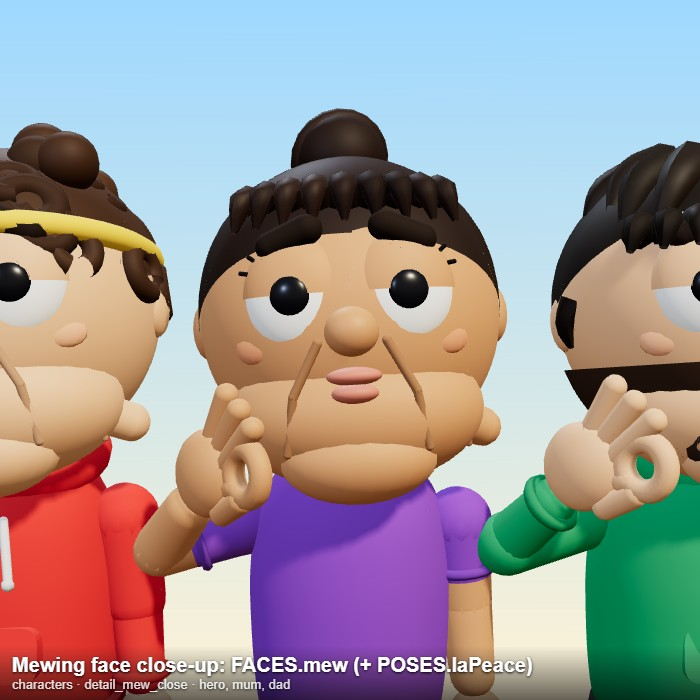
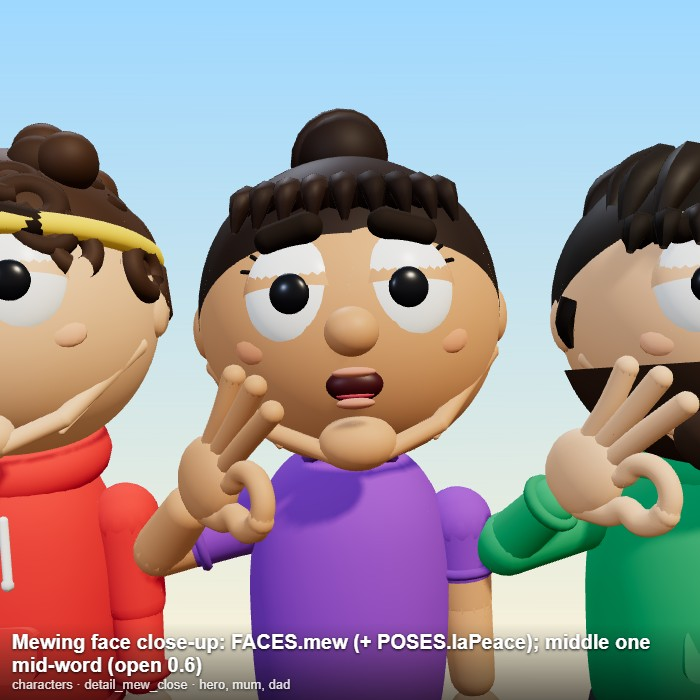
OK hand like a real OK sign, clean chiselled mewing face with moving lips, slimmer mewing Gerald
- 'ok' hand: back of hand, three long fanned fingers, index curls over to the thumb in a round circle (smooth tubes, no self-shadow acne)
- FACES.mew: V jawline, firm chin, pressed lips that part with open (mouth moves on la peace and other lines); no fat jaw
- Gerald AFACES.mew: firm cheeks, chin, pursed lips
- Prompt: mew must look clean, always pass the line's mouth curve

diff --git a/series-animation-guide/assets/library/character.js b/series-animation-guide/assets/library/character.js
@@ -181,11 +181,15 @@ function makeHand(ch, s, skinM, detail) {
   // modelled OK sign (thumb + index ring, three fingers up): the rig's curled fingers don't read as a circle at this scale
   const okG = new THREE.Group(); okG.visible = false; hand.add(okG); H.ok = okG;
   const okSeg = (a, b, r) => { const A = new THREE.Vector3(...a), B = new THREE.Vector3(...b), d = B.clone().sub(A); const m = add(okG, cap(r, Math.max(0.001, d.length() - r), 4, 10), skinM, A.clone().add(B).multiplyScalar(0.5).toArray()); m.quaternion.setFromUnitVectors(new THREE.Vector3(0, 1, 0), d.normalize()); return m; };
-  add(okG, sph(0.064, 18, 14), skinM, [0, -0.075, -0.008], [0, 0, 0], [0.62, 1.05, 1.0]);                                  // flat palm (normal = x)
-  add(okG, tor(0.034, 0.0165, 10, 26), skinM, [0, -0.16, 0.05], [0, Math.PI / 2, 0]);                                       // thumb + index ring (hole faces the palm side)
-  okSeg([0, -0.11, 0.045], [0, -0.132, 0.05], 0.018);                                                                      // index root into the ring
-  okSeg([0, -0.06, 0.055], [0, -0.13, 0.072], 0.019);                                                                      // thumb root into the ring
-  [[0.012, 0.0], [-0.013, -0.16], [-0.038, -0.32]].forEach(([z, a]) => { const L = 0.1 - Math.abs(a) * 0.05; okSeg([0, -0.12, z], [0, -0.12 - Math.cos(a) * L, z + Math.sin(a) * L], 0.0175); });   // three fingers up, fanned
+  // OK sign like the reference photo (back of the hand to camera): middle, ring and pinky long and fanned up; the index curls over
+  // and meets the thumb tip in a round circle beside the palm. Hand-local: fingers point -y, finger row along z (index +z), palm normal x.
+  const okChain = (pts, r) => { const c = new THREE.CatmullRomCurve3(pts.map((q) => new THREE.Vector3(...q))); add(okG, new THREE.TubeGeometry(c, 24, r, 10), skinM, [0, 0, 0]); add(okG, sph(r, 12, 10), skinM, pts[0]); add(okG, sph(r, 12, 10), skinM, pts[pts.length - 1]); };   // smooth finger
+  add(okG, sph(0.064, 18, 14), skinM, [0, -0.07, 0.0], [0, 0, 0], [0.55, 1.05, 1.0]);                                        // back of the hand
+  const cy = -0.135, cz = 0.078, cr = 0.04, P = (deg) => { const a = deg * Math.PI / 180; return [0, cy - cr * Math.sin(a), cz + cr * Math.cos(a)]; };
+  okChain([[0, -0.11, 0.032], P(200), P(160), P(120), P(85), P(50), P(22)], 0.0165);                                      // index: curls over the top of the circle
+  okChain([[0, -0.035, 0.035], [0, -0.07, 0.068], P(-90), P(-50), P(-12), P(14)], 0.019);                                   // thumb: from the wrist side up the bottom of the circle to the index tip
+  [[0.012, 0.06, 0.15], [-0.012, -0.08, 0.142], [-0.034, -0.25, 0.115]].forEach(([z, a, L]) => okChain([[0, -0.115, z], [0, -0.115 - Math.cos(a) * L * 0.5, z + Math.sin(a) * L * 0.5], [0, -0.115 - Math.cos(a * 1.25) * L, z + Math.sin(a * 1.25) * L]], 0.0168));   // middle, ring, pinky: long, fanned
+  okG.traverse((m) => { if (m.isMesh) { m.castShadow = false; m.receiveShadow = false; } });   // small tubes self-shadow into jagged acne
   H.thumb = [t1, t2]; H.parts?.push(t1); if (H.ball) H.parts.forEach((m) => (m.visible = false));
   return H;
 }
@@ -421,21 +425,18 @@ function buildFace(ch, o) {
   const teeth = new THREE.Mesh(box(1, 1, 1), new THREE.MeshStandardMaterial({ color: 0xffffff, roughness: 0.4 })); mouth.add(teeth);
   const smile = new THREE.Mesh(tor(1, 0.1, 8, 24, Math.PI), darkM); smile.position.z = R * 0.04; mouth.add(smile);
   F.mouth = { g: mouth, mm, tongue, teeth, smile };
-  // MEWING (the "la peace" face, exaggerated like the mewing-cat meme): a huge square jaw and chin below the round head,
-  // hard jaw ridges, deep smile-line creases from the nose to the chin, and lips pushed forward. Hidden unless face({ mew }).
+  // MEWING (the "la peace" face): a clean, chiselled look, not a fat one. A sharp V jawline, a firm chin pushed forward,
+  // lips pressed together (they part when the character talks). Hidden unless face({ mew }).
   const mew = new THREE.Group(); mew.visible = false; h.add(mew); F.mew = mew;
-  const jawM = ch.skin, creaseM = mat(shade(o.skin, 0.62), { rough: 0.85 }), lipM = mat(new THREE.Color(o.skin).lerp(new THREE.Color(0xd9707a), 0.55).getHex(), { rough: 0.45 });
-  add(mew, sph(R * 0.62, 28, 20), jawM, [0, -R * 0.62, R * 0.36], [0, 0, 0], [1.32, 0.78, 1.0]);                       // jaw block
-  add(mew, sph(R * 0.36, 22, 16), jawM, [0, -R * 0.9, R * 0.62], [0, 0, 0], [1.35, 0.78, 0.95]);                        // square chin
-  const seg = (a, b, r) => { const A = new THREE.Vector3(...a).multiplyScalar(R), B = new THREE.Vector3(...b).multiplyScalar(R), d = B.clone().sub(A), m = add(mew, cap(R * r, d.length(), 3, 8), creaseM, A.clone().add(B).multiplyScalar(0.5).toArray()); m.quaternion.setFromUnitVectors(new THREE.Vector3(0, 1, 0), d.normalize()); m.castShadow = false; };
+  const shadeM = mat(shade(o.skin, 0.84), { rough: 0.7 }), lipM = mat(new THREE.Color(o.skin).lerp(new THREE.Color(0xc96a72), 0.45).getHex(), { rough: 0.45 });
+  const seg = (a, b, r, m) => { const A = new THREE.Vector3(...a).multiplyScalar(R), B = new THREE.Vector3(...b).multiplyScalar(R), d = B.clone().sub(A), q = add(mew, cap(R * r, d.length(), 4, 10), m, A.clone().add(B).multiplyScalar(0.5).toArray()); q.quaternion.setFromUnitVectors(new THREE.Vector3(0, 1, 0), d.normalize()); q.castShadow = false; return q; };
+  add(mew, sph(R * 0.2, 18, 14), ch.skin, [0, -R * 0.8, R * 0.7], [0.3, 0, 0], [1.2, 0.85, 0.9]);                       // firm chin, pushed forward
   for (const s of [-1, 1]) {
-    add(mew, cap(R * 0.13, R * 0.55, 5, 12), jawM, [s * R * 0.6, -R * 0.68, R * 0.32], [0.35, s * 0.45, s * 1.05]);      // jaw ridge, ear to chin
-    seg([s * 0.2, -0.2, 0.99], [s * 0.36, -0.5, 0.92], 0.028); seg([s * 0.36, -0.5, 0.92], [s * 0.42, -0.84, 0.81], 0.028);   // smile-line crease, nose to chin
-    seg([s * 0.62, -0.5, 0.62], [s * 0.7, -0.86, 0.4], 0.024);                                                             // jowl fold
+    seg([s * 0.9, -0.28, 0.2], [s * 0.5, -0.72, 0.6], 0.06, ch.skin); seg([s * 0.5, -0.72, 0.6], [s * 0.16, -0.86, 0.72], 0.06, ch.skin);   // sharp jawline ridge, ear to chin
+    seg([s * 0.86, -0.36, 0.18], [s * 0.48, -0.8, 0.56], 0.02, shadeM);                                                  // shadow under the jawline
   }
-  seg([-0.3, -1.08, 0.68], [0.3, -1.08, 0.68], 0.024);                                                                     // under-chin fold
-  add(mew, sph(R * 0.13, 16, 10), lipM, [0, -R * 0.4, R * 0.98], [0, 0, 0], [1.25, 0.42, 0.75]);                         // upper lip, pushed out
-  add(mew, sph(R * 0.12, 16, 10), lipM, [0, -R * 0.5, R * 0.97], [0, 0, 0], [1.15, 0.5, 0.8]);                           // lower lip
+  F.lipU = add(mew, sph(R * 0.1, 16, 10), lipM, [0, -R * 0.42, R * 0.95], [0, 0, 0], [1.3, 0.32, 0.6]);                  // lips, pressed together
+  F.lipL = add(mew, sph(R * 0.095, 16, 10), lipM, [0, -R * 0.48, R * 0.94], [0, 0, 0], [1.2, 0.36, 0.6]);
   ch.F = F;
 }
 // Film clock for automatic secondary motion (blinks, breathing). The page sets CLOCK.t once per frame before drawing,
@@ -457,11 +458,12 @@ function applyFace(ch, f) {
     b.g.position.y = b.baseY + o.brow * R * 0.18 + (o.eye - 1) * R * 0.12;
     b.g.rotation.z = s * o.browTilt * 0.7;
   }
-  const mk = o.mew ?? 0; F.mew.visible = mk > 0.01; F.mew.scale.setScalar(0.6 + 0.4 * mk);
-  const m = F.mouth, open = mk > 0.5 ? 0 : o.open; if (mk > 0.5) o.smile = 0;
+  const mk = o.mew ?? 0; F.mew.visible = mk > 0.01; F.mew.scale.setScalar(0.85 + 0.15 * mk);
+  const m = F.mouth, open = o.open, mewing = mk > 0.5; if (mewing) o.smile = 0;
+  if (F.lipU) { F.lipU.position.y = -R * 0.42 + R * 0.07 * open; F.lipL.position.y = -R * 0.48 - R * 0.13 * open; }   // the lips part when they talk (la peace / any line)
   if (open > 0.04) {
     m.mm.visible = true; m.smile.visible = false;
-    m.mm.scale.set(R * (0.12 + 0.1 * Math.min(1, open) + 0.06 * o.wide), R * (0.02 + 0.2 * open), R * 0.08);
+    m.mm.scale.set(R * (0.12 + 0.1 * Math.min(1, open) + 0.06 * o.wide) * (mewing ? 0.7 : 1), R * (0.02 + 0.2 * open) * (mewing ? 0.75 : 1), R * 0.08);
     m.tongue.visible = open > 0.35; m.tongue.position.set(0, -R * 0.1 * open, R * 0.02); m.tongue.scale.set(R * 0.12, R * 0.045 * open, R * 0.05);
     m.teeth.visible = !!o.teeth || open > 0.6; m.teeth.scale.set(R * 0.2, R * 0.04, R * 0.04); m.teeth.position.set(0, R * 0.16 * open, R * 0.05);
   } else {
@@ -550,7 +552,7 @@ export const FACES = {
   lovestruck: { open: 0.45, brow: 0.7, eye: 1.15, wide: 1.2, hearts: 1, lid: 0 },
   excited: { open: 0.65, brow: 0.8, eye: 1.2, teeth: true, wide: 1.2 },
   sleepy: { smile: 0.1, lid: 0.7 },
-  mew: { mew: 1, smile: 0, open: 0, lid: 0.5, brow: -0.45, browTilt: -0.5, pupil: [0, -0.05], blink: false },   // "la peace": mewing, closed tight lips, low lids, sharp brows
+  mew: { mew: 1, smile: 0, open: 0, lid: 0.42, brow: -0.3, browTilt: -0.35, pupil: [0, 0], blink: false },   // add open: mo(...) for la peace lines   // "la peace": mewing, closed tight lips, low lids, sharp brows
 };
 
 // ---------- presets (all complete; no implicit merge with hero) ----------

diff --git a/series-animation-guide/assets/library/cat.js b/series-animation-guide/assets/library/cat.js
@@ -53,20 +53,17 @@ export function buildCat(o) {
   for (const s of [-1, 1]) for (let k = 0; k < 3; k++) add(head, cyl(0.0022, 0.0012, R * 1.1, 4), mat(0xfffaf0), [s * R * 0.62, -R * 0.36 + (k - 1) * R * 0.07, R * 0.86], [0, s * 0.35, Math.PI / 2 + s * (k - 1) * 0.12]);
   for (let i = -1; i <= 1; i++) add(head, cap(R * 0.035, R * 0.22, 4, 8), stripe, [i * R * 0.17, R * 0.62, R * 0.62], [0.95, 0, i * 0.25]);
   for (const s of [-1, 1]) for (let k = 0; k < 2; k++) add(head, cap(R * 0.03, R * 0.2, 4, 8), stripe, [s * R * 1.0, R * 0.05 - k * R * 0.17, R * 0.25], [0, s * 0.5, Math.PI / 2]);
-  // MEWING Gerald (the mewing-cat meme): fat jowls, a huge chin and double chin, deep creases from the nose down, pink lips pushed out.
-  // Hidden unless face({ mew: 0..1 }) / AFACES.mew.
+  // MEWING Gerald (the mewing-cat meme, kept clean): firmer, slightly fuller cheeks, a defined jaw and chin, soft smile-line
+  // creases from the nose, small pink lips pressed out. Hidden unless face({ mew: 0..1 }) / AFACES.mew.
   const mew = new THREE.Group(); mew.visible = false; head.add(mew);
-  const creaseM = mat(0xa24a16, { rough: 0.9 }), lipM = mat(0xe58a8f, { rough: 0.4 });
-  const mseg = (a, b, r) => { const A = new THREE.Vector3(...a).multiplyScalar(R), B = new THREE.Vector3(...b).multiplyScalar(R), d = B.clone().sub(A); const m = add(mew, cap(R * r, Math.max(0.001, d.length() - R * r), 3, 8), creaseM, A.clone().add(B).multiplyScalar(0.5).toArray()); m.quaternion.setFromUnitVectors(new THREE.Vector3(0, 1, 0), d.normalize()); m.castShadow = false; };
+  const creaseM = mat(0xc56a2a, { rough: 0.9 }), lipM = mat(0xe58a8f, { rough: 0.4 });
+  const mseg = (a, b, r, m = creaseM) => { const A = new THREE.Vector3(...a).multiplyScalar(R), B = new THREE.Vector3(...b).multiplyScalar(R), d = B.clone().sub(A); const q = add(mew, cap(R * r, Math.max(0.001, d.length() - R * r), 4, 10), m, A.clone().add(B).multiplyScalar(0.5).toArray()); q.quaternion.setFromUnitVectors(new THREE.Vector3(0, 1, 0), d.normalize()); q.castShadow = false; };
   for (const s of [-1, 1]) {
-    add(mew, sph(R * 0.52, 20, 14), fur, [s * R * 0.62, -R * 0.62, R * 0.42], [0, 0, 0], [1.0, 1.15, 0.9]);              // jowls
-    mseg([s * 0.22, -0.3, 1.0], [s * 0.36, -0.62, 0.95], 0.038); mseg([s * 0.36, -0.62, 0.95], [s * 0.4, -0.98, 0.8], 0.038);   // nose-to-chin crease
-    mseg([s * 0.95, -0.5, 0.5], [s * 0.9, -0.95, 0.35], 0.03);                                                                // outer jowl fold
+    add(mew, sph(R * 0.36, 20, 14), fur, [s * R * 0.62, -R * 0.5, R * 0.48], [0, 0, 0], [0.95, 1.05, 0.85]);              // firm cheeks
+    mseg([s * 0.2, -0.3, 0.97], [s * 0.34, -0.6, 0.9], 0.024);                                                              // soft smile-line crease
   }
-  add(mew, sph(R * 0.46, 22, 16), cream, [0, -R * 0.86, R * 0.6], [0, 0, 0], [1.35, 0.85, 0.95]);                          // big chin
-  add(mew, sph(R * 0.5, 22, 16), fur, [0, -R * 1.18, R * 0.38], [0, 0, 0], [1.45, 0.6, 0.95]);                            // double chin
-  mseg([-0.45, -1.05, 0.72], [0.45, -1.05, 0.72], 0.03);                                                                     // chin fold
-  add(mew, sph(R * 0.13, 14, 10), lipM, [0, -R * 0.52, R * 0.98], [0, 0, 0], [1.3, 0.55, 0.8]);                           // pursed lips
+  add(mew, sph(R * 0.24, 18, 14), cream, [0, -R * 0.66, R * 0.74], [0.3, 0, 0], [1.2, 0.8, 0.9]);                          // firm chin
+  add(mew, sph(R * 0.1, 14, 10), lipM, [0, -R * 0.5, R * 0.97], [0, 0, 0], [1.3, 0.5, 0.75]);                              // pursed lips
   // eyes: series look (episodes 1-2): white ball, round black pupil, no iris colour or catchlight; heavy upper lid is his signature
   const eyes = [];
   for (const s of [-1, 1]) {

diff --git a/series-animation-guide/assets/library/registry.js b/series-animation-guide/assets/library/registry.js
@@ -146,9 +146,9 @@ reg({ id: 'detail_love_eyes', cat: 'characters', title: 'Heart eyes: face({heart
   build: () => { const g = new THREE.Group(); [['hero', -0.6], ['mum', 0.6]].forEach(([n, x]) => { const c = makeCharacter(PRESETS[n]); c.pose(POSES.idle(0.2)); c.face(FACES.love); c.root.position.x = x; g.add(c.root); }); const cat = makeAnimal('cat', ANIMALS.gerald); cat.pose(APOSES.sit(0.4)); cat.face(AFACES.love); cat.root.position.set(0, 0, 0.6); g.add(cat.root); return { obj: g, cam: { pos: [0, 1.3, 3.4], target: [0, 0.95, 0], fov: 36 } }; } });
 reg({ id: 'detail_la_peace', cat: 'characters', title: 'La peace: POSES.laPeace + FACES.mew (OK hand, mewing face)', note: 'hero, mum, dad',
   build: () => { const g = new THREE.Group(); [['hero', -0.9], ['mum', 0.0], ['dad', 0.95]].forEach(([n, x], i) => { const c = makeCharacter(PRESETS[n]); c.pose(POSES.laPeace(i)); c.face(FACES.mew); c.root.position.x = x; c.root.rotation.y = 0.1; g.add(c.root); }); return { obj: g, cam: { pos: [0, 1.5, 3.9], target: [0, 1.3, 0], fov: 38 } }; } });
-reg({ id: 'detail_mew_close', cat: 'characters', title: 'Mewing face close-up: FACES.mew (+ POSES.laPeace)', note: 'hero, mum, dad',
-  build: () => { const g = new THREE.Group(); [['hero', -0.85], ['mum', 0.0], ['dad', 0.9]].forEach(([n, x], i) => { const c = makeCharacter(PRESETS[n]); c.pose(POSES.laPeace(i)); c.face(FACES.mew); c.root.position.x = x; g.add(c.root); }); return { obj: g, cam: { pos: [0, 1.75, 2.4], target: [0, 1.5, 0], fov: 40 } }; } });
+reg({ id: 'detail_mew_close', cat: 'characters', title: 'Mewing face close-up: FACES.mew (+ POSES.laPeace); middle one mid-word (open 0.6)', note: 'hero, mum, dad',
+  build: () => { const g = new THREE.Group(); [['hero', -0.85], ['mum', 0.0], ['dad', 0.9]].forEach(([n, x], i) => { const c = makeCharacter(PRESETS[n]); c.pose(POSES.laPeace(i)); c.face({ ...FACES.mew, open: i === 1 ? 0.6 : 0 }); c.root.position.x = x; g.add(c.root); }); return { obj: g, cam: { pos: [0, 1.75, 2.4], target: [0, 1.5, 0], fov: 40 } }; } });
 reg({ id: 'detail_ok_hand', cat: 'characters', title: 'OK hand close-up (hR: ok)', note: '',
   build: () => { const c = makeCharacter(PRESETS.mum); c.pose(POSES.laPeace(0)); c.face(FACES.mew); const p = new THREE.Vector3(); c.root.updateMatrixWorld(true); c.aR.hand.root.getWorldPosition(p); return { obj: c.root, cam: { pos: [p.x + 0.1, p.y + 0.15, p.z + 1.2], target: [p.x, p.y + 0.12, p.z], fov: 30 } }; } });
-reg({ id: 'detail_gerald_mew', cat: 'animals', title: 'Mewing Gerald: AFACES.mew (jowls, chin, creases, pursed lips)', note: 'front / 3-4',
+reg({ id: 'detail_gerald_mew', cat: 'animals', title: 'Mewing Gerald: AFACES.mew (firm cheeks, chin, pursed lips)', note: 'front / 3-4',
   build: () => { const g = new THREE.Group(); [[-0.36, 0.0], [0.4, 0.55]].forEach(([x, ry]) => { const c = makeAnimal('cat', ANIMALS.gerald); c.pose({ ...APOSES.sit(0.3), hx: -0.12 }); c.face(AFACES.mew); c.root.position.x = x; c.root.rotation.y = ry; g.add(c.root); }); return { obj: g, cam: { pos: [0, 0.6, 2.1], target: [0, 0.45, 0], fov: 34 } }; } });

diff --git a/series-animation-guide/MASTER_PROMPT.md b/series-animation-guide/MASTER_PROMPT.md
@@ -114,7 +114,7 @@ Episode 3 v1 cut every ~0.7 s and the user rejected it: confusing, text overlapp
 - Give each speaker a different delivery: excited, disbelief, confused, deadpan, broadcast or radio, small group, big crowd, whole-world crowd.
 - **About 14 voiced lines.** Every other reaction is silent open-mouth shock with no caption.
 - Each voiced line gets a punch-zoom, mouth movement synced to the audio, and a big yellow caption.
-- **"La peace" episodes:** every character who says it does the OK hand sign beside the face and a **very exaggerated mewing face** like the mewing-cat meme (huge square jaw and chin, deep creases from nose to chin, lips pushed out, chin up, half-lidded smug eyes): `ch.pose(POSES.laPeace(t))` + `ch.face(FACES.mew)`. Gerald mews too when the episode calls for it: `gerald.face(AFACES.mew)` (fat jowls, big double chin, creases, pursed pink lips). Keep the mouth closed except a small open on the syllables. Captions read "LA PEACE" / "LA PEACE!". The sample is 1.1 s (the first "la peace" of the source).
+- **"La peace" episodes:** every character who says it does the OK hand sign beside the face (back of the hand to camera, three fingers up, index and thumb making a round circle) and a **mewing face**: clean and chiselled, never fat or ugly (sharp V jawline, firm chin pushed forward, lips pressed together, chin up, half-lidded smug eyes): `ch.pose(POSES.laPeace(t))` + `ch.face({ ...FACES.mew, open: mo(id, t) })`. **The mouth must move on every line**: the pressed lips part with `open`, so always pass the line's mouth curve. Gerald mews too when the episode calls for it: `gerald.face(AFACES.mew)` (firm cheeks, chin, small pursed pink lips). Keep the mouth closed except a small open on the syllables. Captions read "LA PEACE" / "LA PEACE!". The sample is 1.1 s (the first "la peace" of the source).
 
 ### Gerald — the recurring cat (cast, not a trope)
 - Gerald (`ANIMALS.gerald`, orange tabby, half-lidded eyes) appears in **every scene** of every episode, shown in a wide/establishing shot first, doing something unbothered that suits the location. He is never counted, never impressed, never speaks or meows (no audio from him).

diff --git a/series-animation-guide/assets/library/INDEX.md b/series-animation-guide/assets/library/INDEX.md
@@ -102,6 +102,6 @@ Heart eyes: people `face({ hearts: 0..1 })` (or `FACES.love` / `FACES.lovestruck
 
 ## Gestures, clips, catchphrase SFX (2026-11-19)
 - Hands are balls (series look) but swap to fingers for finger gestures: `hR: 'ok' | 'point' | 'peace'` (gesture hands grow 1.6x so the sign reads). `'ok'` is a modelled OK sign (thumb-index ring + three fingers). Wrist twist: pose keys `wL` / `wR`.
-- **La peace:** `POSES.laPeace(t)` (OK hand up beside the face, chin up) + `FACES.mew` (exaggerated mewing: huge square jaw and chin, nose-to-chin creases, lips pushed out, half lids; `face({ mew: 0..1 })` blends it in). Gerald: `AFACES.mew` / `face({ mew })` (jowls, double chin, creases, pursed lips). Screenshots: `detail_la_peace`, `detail_mew_close`, `detail_ok_hand`, `detail_gerald_mew`.
+- **La peace:** `POSES.laPeace(t)` (OK hand up beside the face, chin up) + `FACES.mew` (clean mewing: sharp V jawline, firm chin, pressed lips that part with `open`, half lids; `face({ mew: 0..1, open })`). The `'ok'` hand follows a real OK sign: back of the hand to camera, three long fanned fingers, index curling over to meet the thumb in a round circle. Gerald: `AFACES.mew` / `face({ mew })` (firm cheeks, chin, pursed lips). Screenshots: `detail_la_peace`, `detail_mew_close`, `detail_ok_hand`, `detail_gerald_mew`.
 - Catchphrase samples live one level up in `assets/`: `bomboclat.mp3`, `la_peace.mp3` (1.1 s, first phrase only).
 - **Clips:** `clips/clap_cat.webm` (clapping black cat, green screen removed, VP9 with alpha + sound; poster `clips/clap_cat_poster.png`; it holds a paw out at about 6.0 s). `python tools/clip_frames.py clips/clap_cat.webm <episode>/build/clip <episode>/build/audio/clip.wav` makes the frames, then `await clipCard(dirURL, { height: 1.65, feet: 0.184 })` from `fx/clip.js` and call `card.show(t - t0, camera.position)` every frame. The script's header shows how to key a new green-screen clip.
